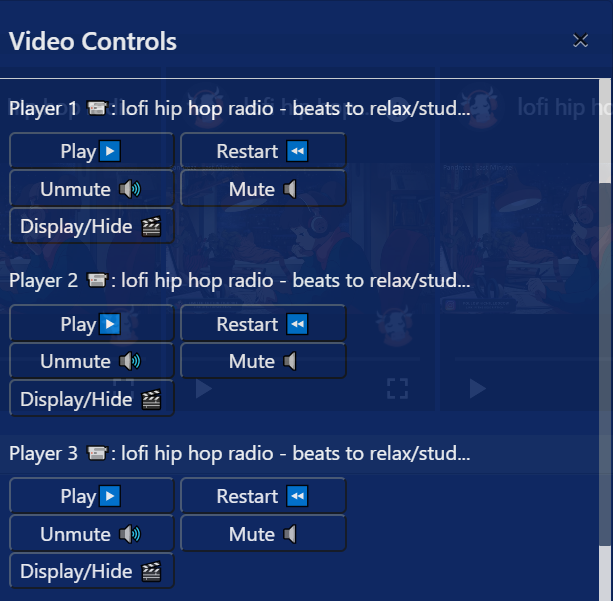
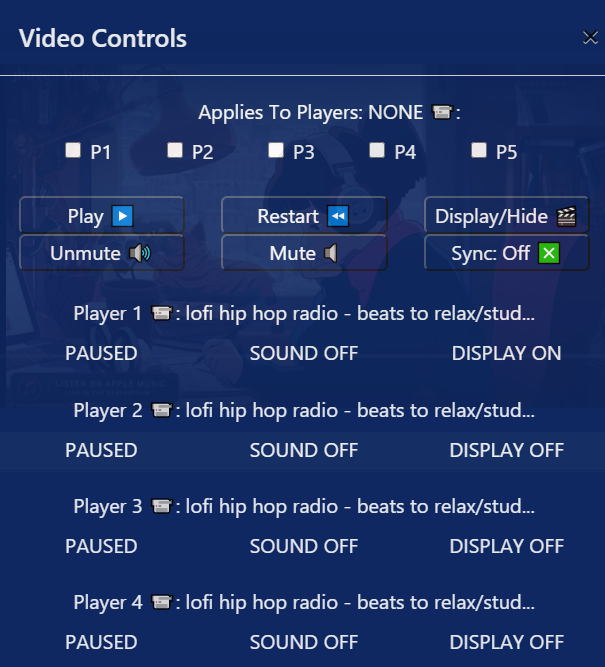
instructions and patch-1.1.0 complete. Closes #56

diff --git a/landing.html b/landing.html
@@ -66,7 +66,7 @@
                             <img class="instruction_img" src="/images/joinroom.png" alt="join tab" />
                             <hr>
                             <h4 id="list-item-3">Multi-Video View & Controls</h4>
-                            <p>There are five video players in total and only one is visible by default, however you can fiddle with how, when and which will them appear as show in the pictures below.</p>
+                            <p>There are five video players in total and only one is visible by default, however you can fiddle with how, when and which will them appear as show in the pictures below. Display and Play buttons function differently from the others, if the selection contains both displayed and hidden players then they will be toggled; hidden becomes displayed, displayed becomes hidden, and the selection will be either restarted, paused or played in the following order: Selection contains an ended video, selection contains a playing video, selection is all paused.</p>
                             <img class="instruction_img" src="/images/videoplayers.png" alt="players" />
                             <img class="instruction_img" src="/images/videocontrols.png" alt="controls" />
                             <img class="instruction_img" src="/images/loadvid.png" alt="video load" />

diff --git a/README.md b/README.md
@@ -18,7 +18,7 @@
 
 <h3>About:</h3>
 
-![Version](https://img.shields.io/badge/CH%40TO-1.0.2--beta-success)
+![Version](https://img.shields.io/badge/CH%40TO-1.1.0--beta-success)
 ![Domain](https://img.shields.io/badge/Active%20Domain-ch--to.com-success)
 
 
